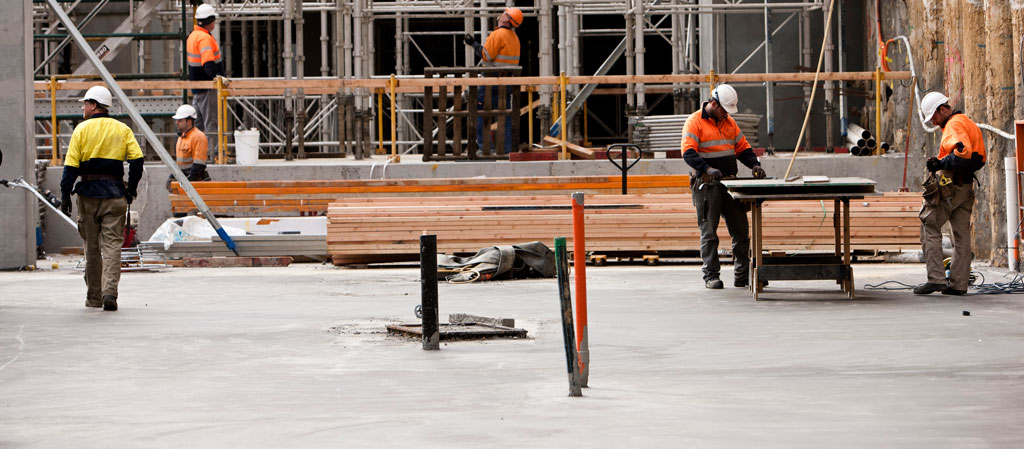
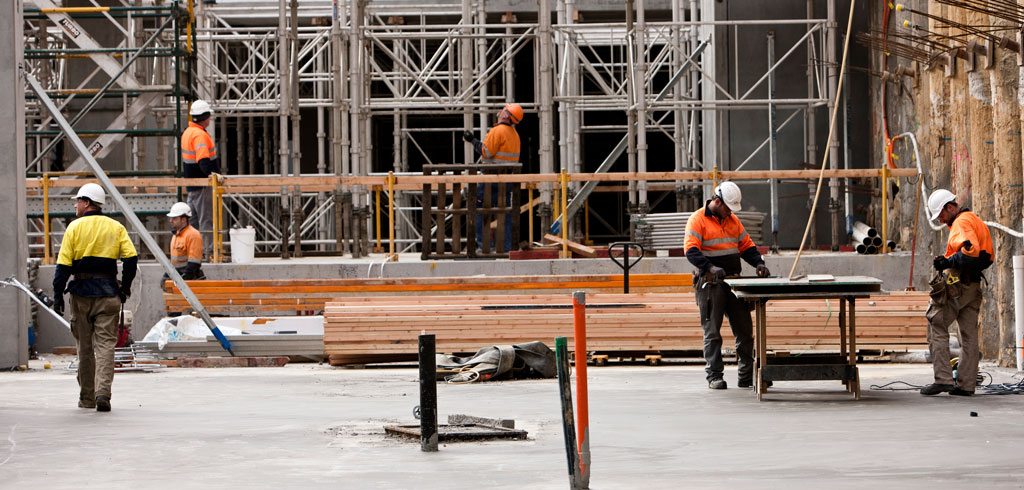
Resolving background resolution and layout quirks

diff --git a/css/style.css b/css/style.css
@@ -266,10 +266,10 @@ p.category {
 }
 
 .content {
-    background-image: url("../images/background-md.jpg");
+    background-image: url("../images/background-lg.jpg");
     background-size: cover;
     background-attachment: fixed;
-    background-position: 50% 100%;
+    background-position: 50% 50%;
     max-width: none;
     width: 100%;
     clear: both;

diff --git a/css/651-960.css b/css/651-960.css
@@ -1,7 +1,7 @@
 @media screen and (min-width: 651px) and (max-width: 960px) {
 
   .content {
-    background-image: url("../images/background-sm.jpg");
+    background-image: url("../images/background-md.jpg");
   }
 
   .box {

diff --git a/css/0-650.css b/css/0-650.css
@@ -6,7 +6,7 @@
   }
 
   .content {
-    background-image: url("../images/background-vert.jpg");
+    background-image: url("../images/background-sm.jpg");
   }
 
   #home-content-region .region-homepage-left .block {

diff --git a/css/0-450.css b/css/0-450.css
@@ -1,0 +1,6 @@
+@media only screen and (max-width: 450px) {
+  /* Mobile only */
+  .content {
+    background-image: url("../images/background-vert.jpg");
+  }
+}
